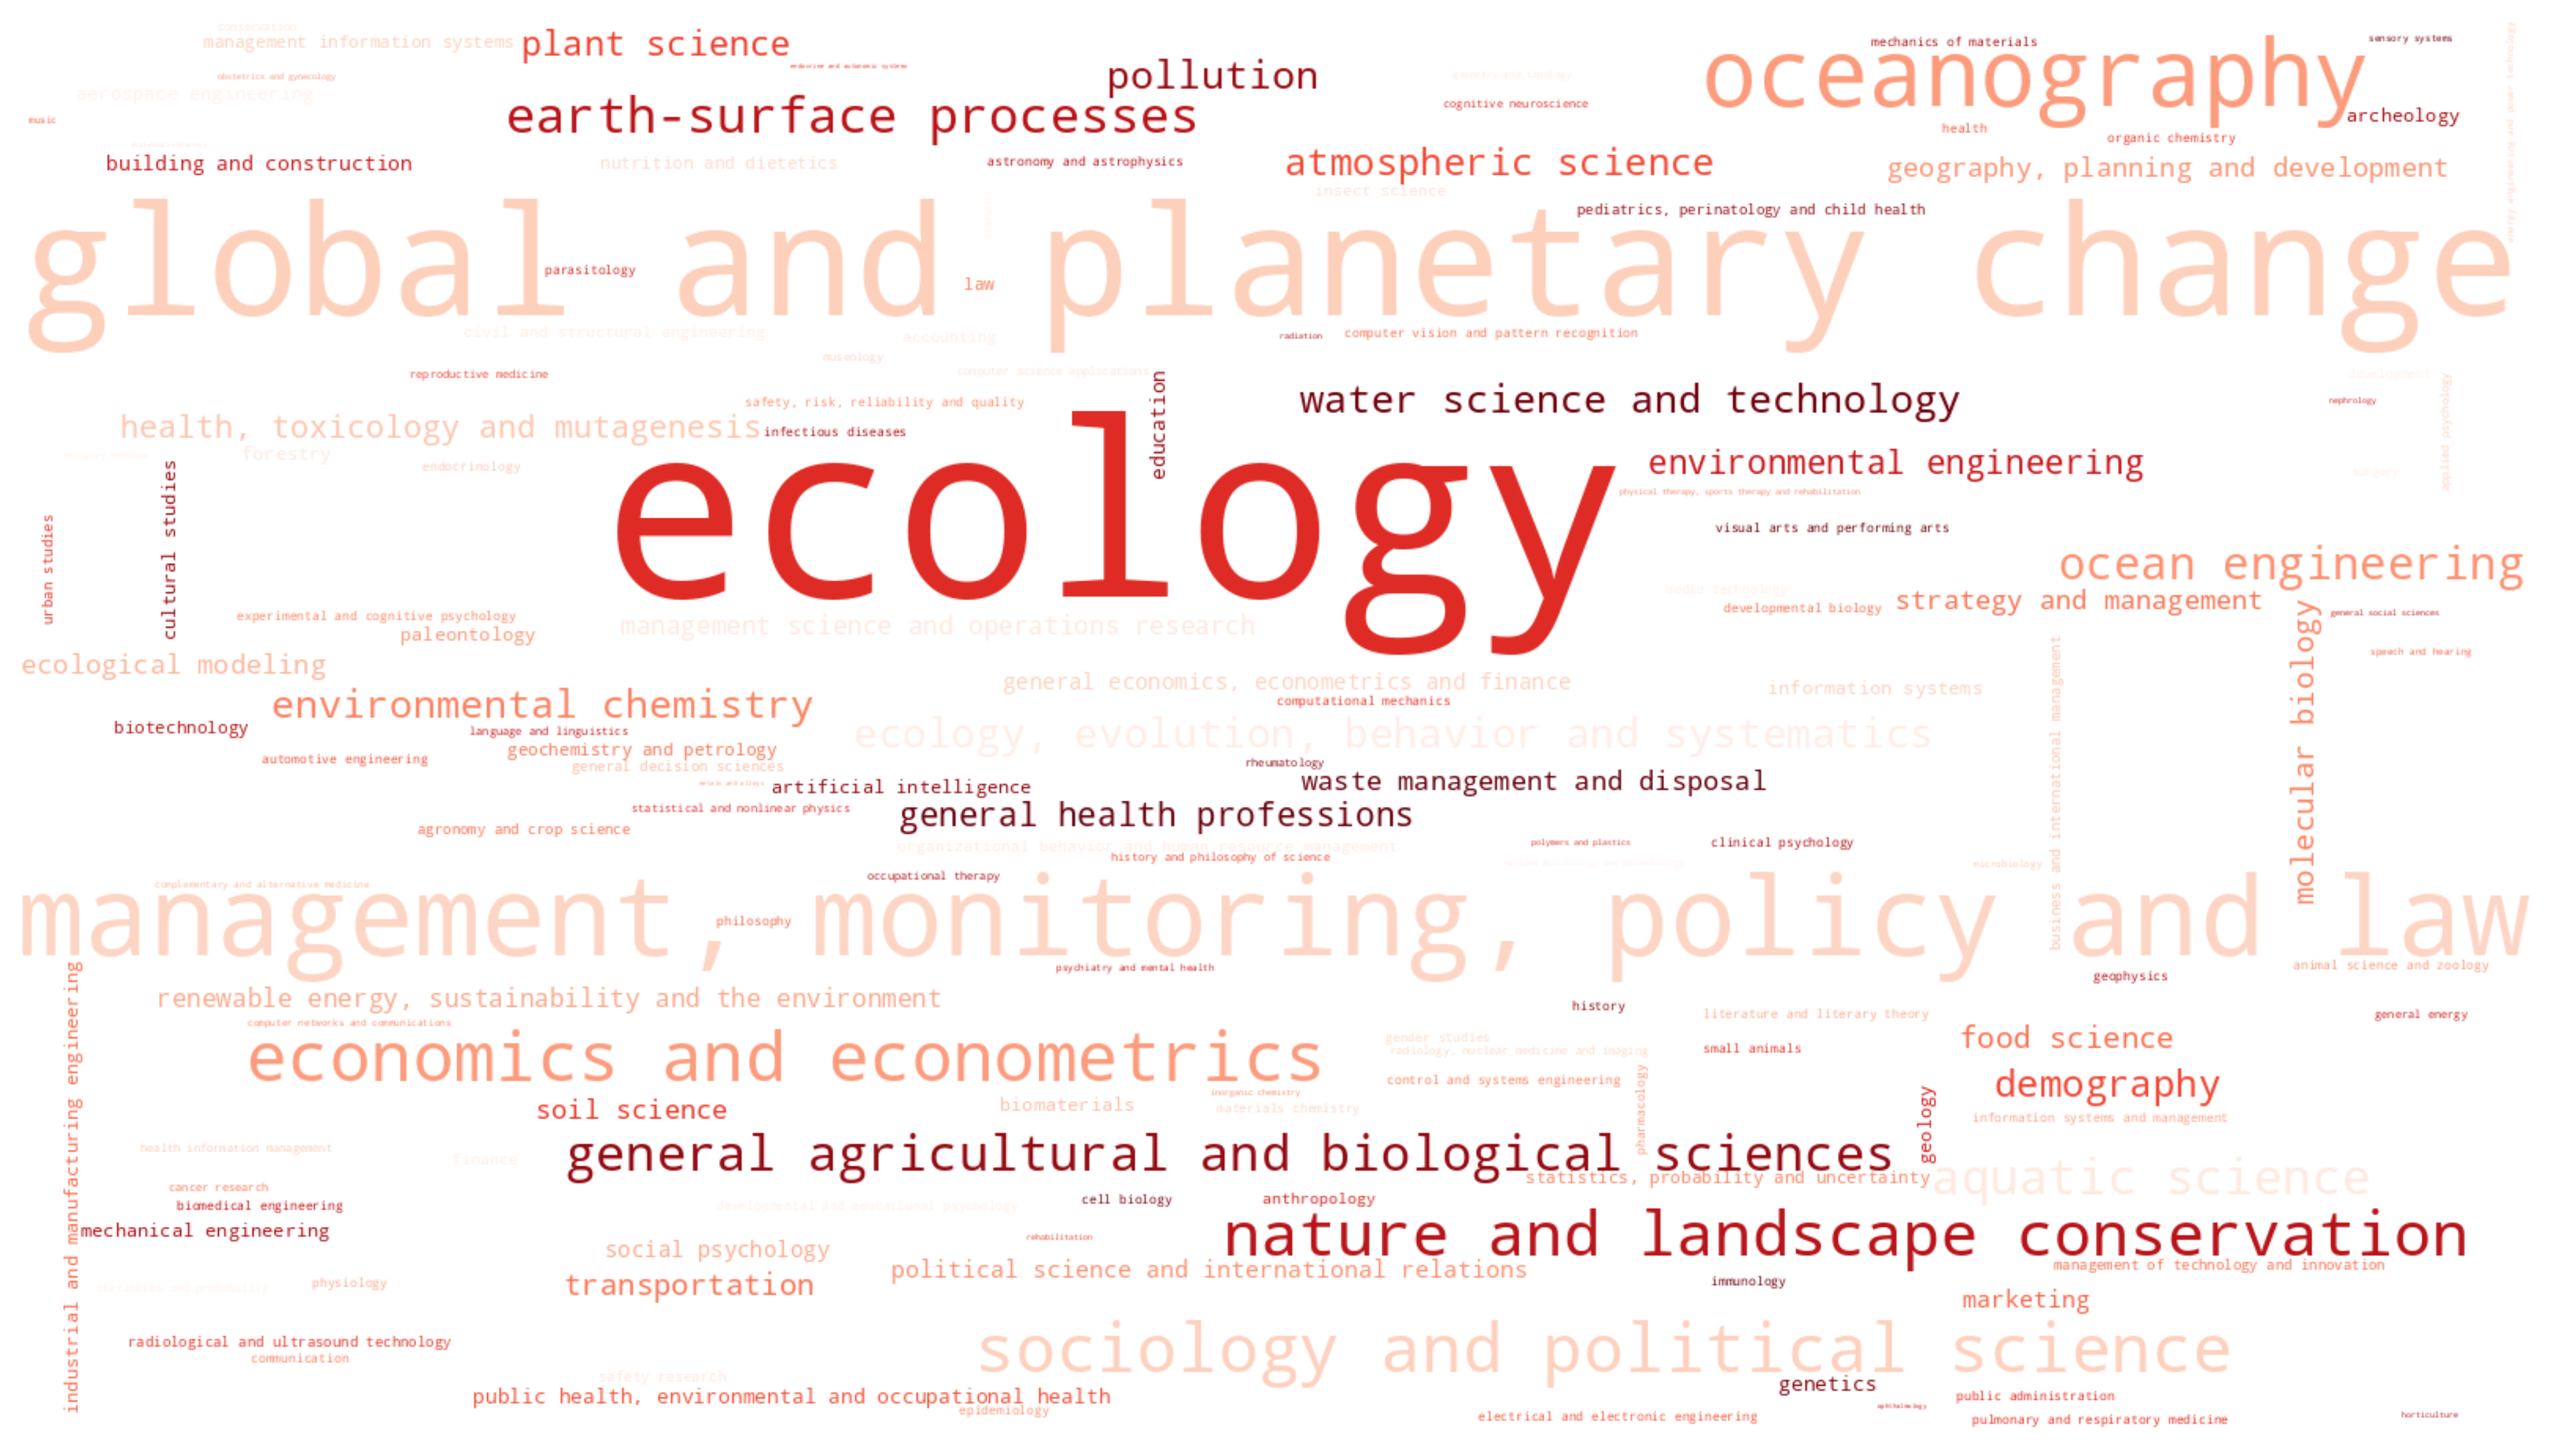
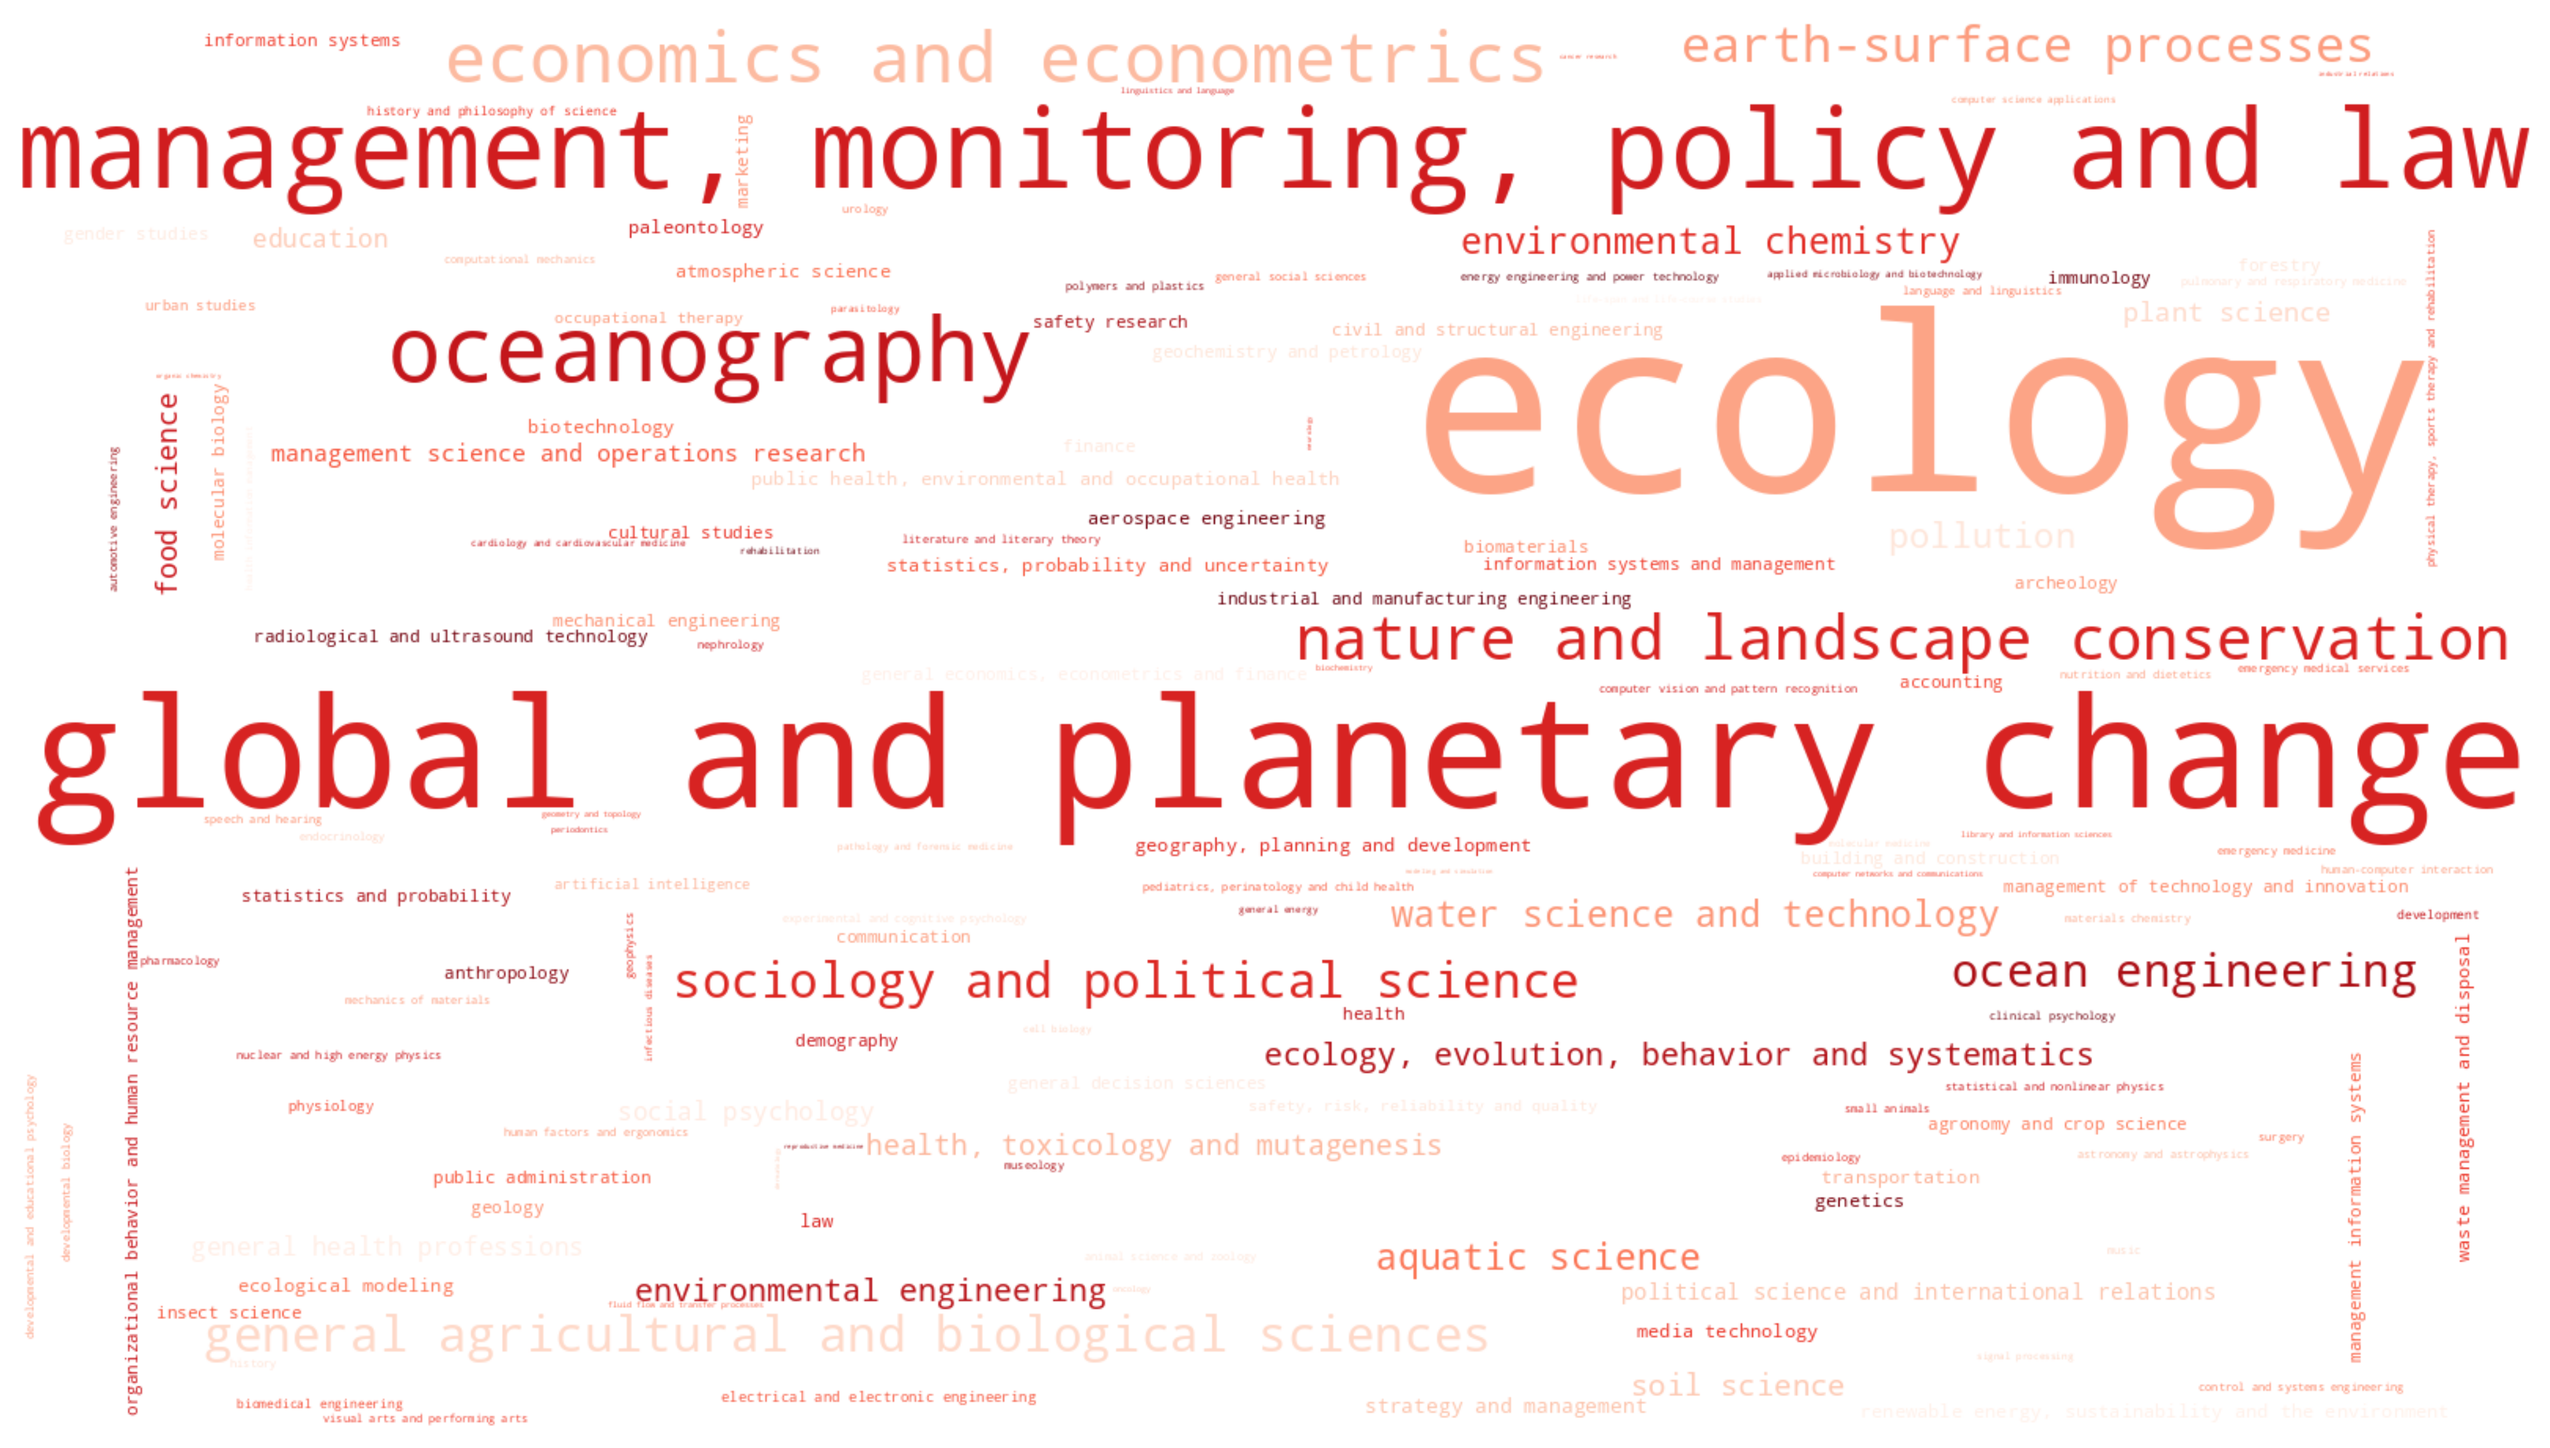
editing files and adding MD for search

Changed region(s): [[0.0, 0.0, 0.994, 0.9948], [0.963, 0.7772, 0.994, 0.8082]]

diff --git a/inputs/search_terms.py b/inputs/search_terms.py
@@ -138,92 +138,6 @@ TERM_GROUPS = {
         '"co-management"',
         '"area-based management"',
         '"ecosystem-based management"',
-    ],
-
-    "EF_core" :[
-        'biodiversity',
-        '"nutrient cycling"',
-        '"primary production"',
-        '"Ecosystem function"',
-        '"Ecosystems functioning"',
-        '"energy flow"',
-        'regulation',
-        '"biological process"',
-        '"physiochemical process"'
-    ],
-    "EF_valuation":[
-        '"species distribution"',
-        '"organic loading"',
-        '"carbon export"',
-        '"carbon sequestration"',
-        'carbon',
-        '"nutrient cycling"',
-        'migration',
-        '"function groups"',
-        '"migration patterns"',
-        '"reproductive patterns"',
-        'oxygen',
-        'trophic',
-        'sedimentation',
-        'reproduction',
-        'turbidity',
-        'decomposition'
-      ],
-      "ESt_core":[
-        'producers',
-        'consumers',
-        '"ecosystem structure"',
-        '"ecosystem structures"',
-        'light',
-        'sunlight',
-        'depth',
-        'pressure',
-        'temperature',
-        'salinity',
-        'nutrients',
-        'oxygen',
-        '"vertical zones"'
-       ],
-      "ESt_valuation":[
-        'kelp',
-        'seaweed',
-        'seaweeds',
-        'macroalgae',
-        'plankton',
-        'pelagic',
-        'euphotic',
-        'dysophotic',
-        'apotic',
-        'mesophotic',
-        'photosynthesis',
-        '"coral reef"',
-        'coral',
-        'corals',
-        '"temperate reefs"',
-        '"temperate reef"',
-        'seagrass',
-        '"seagrass meadows"',
-        '"rocky reefs"',
-        'estuaries',
-        '"larval recruitment"',
-        'connectivity',
-        'habitats',
-        'benthic',
-        '"coralline algae"',
-        'CCA',
-    ],
-    "Ecosystem_data_methods": [
-        'eDNA',
-        '"long-term monitoring"',
-        'isotope',
-        'isotopes',
-        '"remote sensing"',
-        'acoustics',
-        'metabarcoding',
-        'sedimentology',
-        'image',
-        'drone',
-        'restoration'
     ]
 }
 

diff --git a/code/topics_analysis.py b/code/topics_analysis.py
@@ -19,7 +19,7 @@ sys.path.insert(0, str(REPO_ROOT))
 
 
 
-CSV_PATH = REPO_ROOT / "results" / "papers_metadata.csv"  # <- your file
+CSV_PATH = REPO_ROOT / "results" / "papers_metadata_newkw.csv"  # <- your file
 KEYWORD_COL = "Topics_subfields"                  # <- column name (e.g. "keywords.display_name")
 OUTPUT_PNG = REPO_ROOT / "results" / "Topics_subfields_wordcloud.png"
 EXCLUDE = set()                           # e.g. {"Computer science", "Biology"} to drop generic terms

diff --git a/code/keyword_analysis.py b/code/keyword_analysis.py
@@ -19,7 +19,7 @@ sys.path.insert(0, str(REPO_ROOT))
 
 
 
-CSV_PATH = REPO_ROOT / "results" / "papers_metadata.csv"  # <- your file
+CSV_PATH = REPO_ROOT / "results" / "papers_metadata_newkw.csv"  # <- your file
 KEYWORD_COL = "Keywords"                  # <- column name (e.g. "keywords.display_name")
 OUTPUT_PNG = REPO_ROOT / "results" / "keywords_wordcloud.png"
 EXCLUDE = set()                           # e.g. {"Computer science", "Biology"} to drop generic terms

diff --git a/code/Keywords_counts.py b/code/Keywords_counts.py
@@ -14,7 +14,7 @@ import pandas as pd
 # --------------------------------------------------------------------------
 SCRIPT_DIR = Path(__file__).resolve().parent
 REPO_ROOT = SCRIPT_DIR.parent
-INPUT_CSV = REPO_ROOT / "results" / "papers_metadata.csv"
+INPUT_CSV = REPO_ROOT / "results" / "papers_metadata_newkw.csv"
 OUTPUT_PNG = REPO_ROOT / "results" / "papers_per_query_template.png"
 OUTPUT_COUNTS = REPO_ROOT / "results" / "papers_per_query_template.csv"
 

diff --git a/code/Open_Alex_Search.py b/code/Open_Alex_Search.py
@@ -38,7 +38,7 @@ MAILTO = os.getenv("MAILTO_OPENALEX")
 BASE_URL = "https://api.openalex.org/works"
 PER_PAGE = 200
 SLEEP_BETWEEN_REQUESTS = 0.3
-OUTPUT_CSV = REPO_ROOT / "results" / "papers_metadata.csv"
+OUTPUT_CSV = REPO_ROOT / "results" / "papers_metadata_newkw.csv"
 
 SELECT_FIELDS = [
     "id", "doi", "title", "language", "publication_year", "type",

diff --git a/code/make_document_search.py b/code/make_document_search.py
@@ -1,0 +1,13 @@
+"""
+print_queries.py
+
+Prints every search query exactly as it would be sent to OpenAlex.
+Makes no API calls and doesn't run the search.
+"""
+
+from OpenAlex_search_new_counts import QUERIES
+
+for i, q in enumerate(QUERIES, start=1):
+    print(f"[{i}] {q['label']}")
+    print(q["query"])
+    print()

diff --git a/docs/index.md b/docs/index.md
@@ -16,6 +16,8 @@ services group AND an ocean-context group, optionally AND a management
 group) — see `code/OpenAlex_search_new_counts.py` for the exact query
 logic.
 
+ - [Search strategy](search_strategy.md).
+
 <!-- TERMS:START -->
 
 | Term group | Terms |
